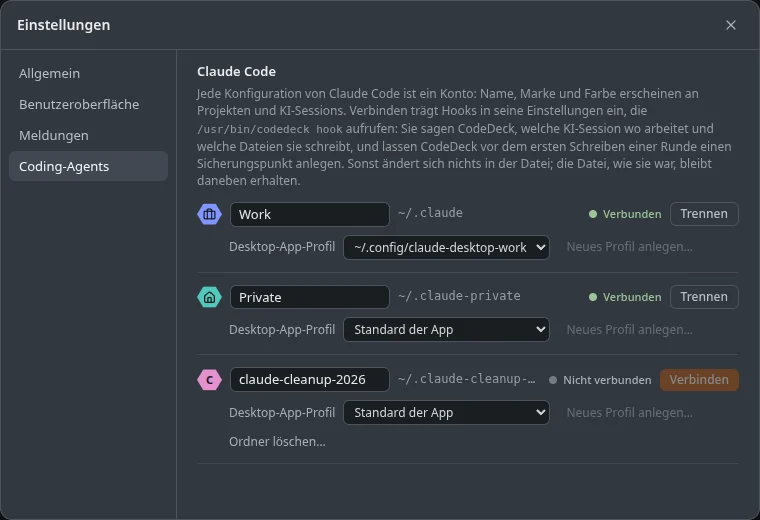
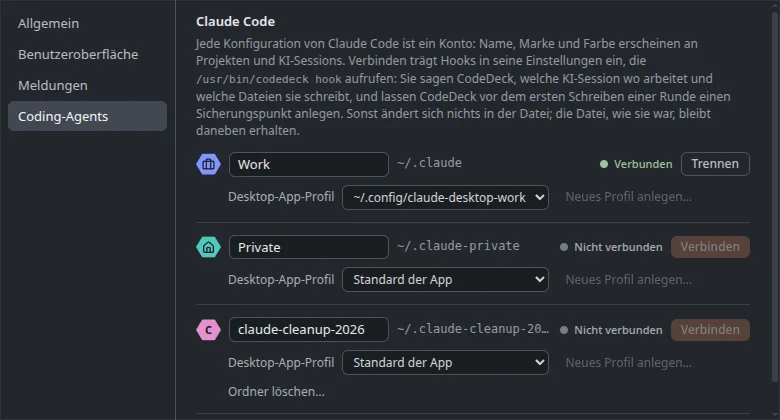
CodeDeck manual: connect in the welcome, settings in their own window
Claude-Session: https://claude.ai/code/session_01AmUU1ckh5iDie4vHPz56Cn

diff --git a/src/pages/codedeck/manual/de/tutorial/01-vorbereitung.md b/src/pages/codedeck/manual/de/tutorial/01-vorbereitung.md
@@ -8,7 +8,7 @@ purpose: >-
   Nach diesem Kapitel läuft CodeDeck, kennt deinen Coding-Agent und hat dein erstes Projekt auf der Liste.
 ---
 
-Bevor die erste Arbeitsrunde beginnen kann, sind drei Dinge zu erledigen: CodeDeck muss auf deinem Rechner laufen, es muss wissen, an welchen Projekten du arbeitest, und es muss mit deinem Coding-Agent verbunden sein. Das dauert nur ein paar Minuten, und du machst es nur einmal.
+Bevor die erste Arbeitsrunde beginnen kann, sind drei Dinge zu erledigen: CodeDeck muss auf deinem Rechner laufen, es muss mit deinem Coding-Agent verbunden sein, und es muss wissen, an welchen Projekten du arbeitest. Das dauert nur ein paar Minuten, und du machst es nur einmal.
 
 ## CodeDeck installieren
 
@@ -18,7 +18,7 @@ Wie du CodeDeck installierst und später aktualisierst, beschreibt der Anhang un
 
 Beim ersten Start öffnet sich das Fenster **Willkommen bei CodeDeck**. CodeDeck hat zu diesem Zeitpunkt bereits nachgesehen, mit welchen Programmen es auf deinem Rechner zusammenarbeiten kann, und zeigt dir das Ergebnis als Liste.
 
-![Das Willkommensfenster: oben „Alles, was CodeDeck braucht, ist da“, darunter die Liste der gefundenen Programme wie Claude Code, git und tmux, jeweils mit „gefunden“ oder „fehlt“ und einer Einstufung](/codedeck/manual/de/vorbereitung-willkommen.webp)
+![Das Willkommensfenster: oben „Alles, was CodeDeck braucht, ist da“, darunter die Liste der gefundenen Programme wie Claude Code, git und tmux, jeweils mit „gefunden“ oder „fehlt“ und einer Einstufung; unter Claude Code der Hinweis „Noch nicht verbunden“ mit dem Knopf „Verbinden“](/codedeck/manual/de/vorbereitung-willkommen.webp)
 
 Jede Zeile nennt ein Programm und sagt dir, ob CodeDeck es **gefunden** hat oder ob es **fehlt**. Daneben steht, wie wichtig das Programm für CodeDeck ist:
 
@@ -30,11 +30,33 @@ Wenn du mit der Maus auf das Symbol ⓘ am Ende einer Zeile zeigst, erklärt Cod
 
 Wenn dein Desktop unter Wayland läuft, zeigt das Willkommensfenster zusätzlich einen Hinweis, welche Funktionen dort eingeschränkt sind und wie du dir trotzdem ein Tastenkürzel für CodeDeck einrichtest. Die Hintergründe stehen auf der Seite [Wayland und X11](/codedeck/manual/de/anhang/wayland/).
 
+Unter deinem Coding-Agent steht außerdem, ob er schon mit CodeDeck verbunden ist. Was es damit auf sich hat, erklärt der nächste Abschnitt.
+
 Mit **Erzähl mir mehr** kommst du auf eine zweite Seite. Sie erklärt in vier kurzen Abschnitten, was ein Projekt ist, wie die Projektliste aufgebaut ist und wie CodeDeck von deinen KI-Sessions erfährt. Du kannst sie jetzt lesen oder dich auf dieses Tutorial verlassen, das dieselben Dinge ausführlicher erklärt.
 
 ![Die zweite Seite des Willkommensfensters, „Deine Projekte“, mit vier Kästen: Die Projektliste, Ein Projekt, KI-Sessions hören, Hinzufügen und öffnen](/codedeck/manual/de/vorbereitung-deine-projekte.webp)
 
 Das Willkommensfenster erscheint bei jedem Start von CodeDeck, bis du unten **Beim Start nicht mehr zeigen** ankreuzt. Sollte später ein essenzielles Programm verschwinden, zum Beispiel nach einem Systemwechsel, zeigt CodeDeck es von selbst wieder an. Du kannst es außerdem jederzeit über das CodeDeck-Menü hinter dem Logo öffnen, mit dem Eintrag **Willkommen und Rechner-Check**.
+
+## Den Coding-Agent verbinden
+
+Damit CodeDeck sieht, was deine KI-Sessions tun, muss dein Coding-Agent CodeDeck Bescheid geben: wenn eine Session startet, wenn sie arbeitet, wenn sie dich etwas fragt und wenn sie mit ihrer Runde fertig ist. Dafür verbindest du den Coding-Agent einmal mit CodeDeck.
+
+Am einfachsten geht das gleich im Willkommensfenster. Ist dein Coding-Agent noch nicht verbunden, steht unter seiner Zeile **Noch nicht verbunden** und daneben der Knopf **Verbinden**. Ein Klick darauf genügt, danach steht dort **Mit CodeDeck verbunden**.
+
+CodeDeck trägt dabei einen kleinen Befehl in die Einstellungen deines Coding-Agents ein, der ihm künftig jeden Schritt einer Session meldet. Sonst ändert sich nichts in der Datei, und die Fassung von vorher bleibt als Kopie daneben erhalten. KI-Sessions, die schon liefen, bevor du verbunden hast, melden sich ab ihrem nächsten Schritt. Du musst sie also nicht neu starten.
+
+### Mehrere Konfigurationen und die Einstellungen
+
+Bei Claude Code ist eine **Konfiguration** ein Ordner wie `~/.claude`, in dem der Coding-Agent seine Einstellungen und seine Anmeldung aufbewahrt. Die meisten Menschen haben genau eine. Wer zum Beispiel ein Konto für die Arbeit und eines für private Projekte nutzt, hat zwei. Das Willkommensfenster bietet dir für jede Konfiguration, die noch nicht verbunden ist, einen eigenen Knopf an.
+
+Alles Weitere dazu findest du in den Einstellungen im Bereich **Coding-Agents**. Die Einstellungen öffnen sich in einem eigenen Fenster, und du erreichst sie jederzeit, auch wenn noch kein Projekt geöffnet ist: auf der Startseite über das Menü ⋯ oben rechts, im Projektfenster über die Schnelleinstellungen und **Alle Einstellungen…** und über das Symbol von CodeDeck in der Leiste deines Desktops.
+
+![Die Einstellungen im Bereich Coding-Agents: drei Konfigurationen von Claude Code, eine davon „Verbunden“ mit dem Knopf „Trennen“, zwei „Nicht verbunden“ mit dem Knopf „Verbinden“](/codedeck/manual/de/vorbereitung-coding-agents.webp)
+
+CodeDeck behandelt jede Konfiguration als eigenes **Konto** und zeigt dessen Namen, Zeichen und Farbe später an den Projekten und Sessions an. Den Namen kannst du hier ändern. Hier verbindest du auch weitere Konfigurationen, und mit **Trennen** löst du eine Verbindung wieder.
+
+Wie die Meldungen technisch funktionieren, erklären die [KI-Grundlagen](/codedeck/manual/de/nachschlagen/ki-grundlagen/). Welche Coding-Agents CodeDeck unterstützt, steht im Anhang unter [Coding-Agents](/codedeck/manual/de/anhang/coding-agents/).
 
 ## Das erste Projekt hinzufügen
 
@@ -46,7 +68,7 @@ Beim ersten Start ist die Liste noch leer, und CodeDeck bietet dir zwei Wege an,
 
 Mit **Projekt hinzufügen …** wählst du einen einzelnen Ordner aus, der dann auf die Liste kommt. Mit **Alle Projekte in einem Verzeichnis…** wählst du einen übergeordneten Ordner, und CodeDeck nimmt jeden Ordner darin als eigenes Projekt auf. Das ist praktisch, wenn du alle deine Projekte zum Beispiel unter `~/projects` sammelst.
 
-Später, wenn die Liste nicht mehr leer ist, findest du beide Befehle im Menü ⋯ neben der Überschrift „Projekte“. Ein Klick auf ein Projekt in der Liste öffnet es in einem **Projektfenster**. Öffne jetzt dein erstes Projekt, denn den nächsten Schritt erledigst du dort. Wie das Projektfenster aufgebaut ist, zeigt dir das nächste Kapitel ausführlich.
+Später, wenn die Liste nicht mehr leer ist, findest du beide Befehle im Menü ⋯ neben der Überschrift „Projekte“. Ein Klick auf ein Projekt in der Liste öffnet es in einem **Projektfenster**. Wie dieses Fenster aufgebaut ist, zeigt dir das nächste Kapitel ausführlich.
 
 ### Wenn der Ordner noch kein Git-Repository ist
 
@@ -58,25 +80,9 @@ Wenn der Ordner, den du aufgenommen hast, noch kein Git-Repository ist, musst du
 
 Ein Klick auf **git init** macht den Ordner zu einem Git-Repository mit dem Branch `main`. CodeDeck tut das nie von selbst, weil es dein Projekt verändert, sondern nur, wenn du den Knopf drückst. An deinen Dateien ändert sich dabei nichts. Den Knopf findest du außerdem unten in der Dateiliste neben „Kein Git-Repo“, falls du den Hinweis in der Mitte gerade nicht vor dir hast.
 
-## Den Coding-Agent verbinden
-
-Damit CodeDeck sieht, was deine KI-Sessions tun, muss dein Coding-Agent CodeDeck Bescheid geben: wenn eine Session startet, wenn sie arbeitet, wenn sie dich etwas fragt und wenn sie mit ihrer Runde fertig ist. Dafür verbindest du den Coding-Agent einmal mit CodeDeck.
-
-Öffne dazu im Projektfenster die Einstellungen. Du erreichst sie über die Schnelleinstellungen oben links neben dem Projektnamen (das Symbol mit den Schiebereglern) und dort über **Alle Einstellungen…**. Wähle links den Bereich **Coding-Agents**. Auf der Startseite ohne geöffnetes Projekt sind die Einstellungen noch nicht verfügbar.
-
-![Die Einstellungen im Bereich Coding-Agents: drei Konfigurationen von Claude Code, zwei davon „Verbunden“ mit dem Knopf „Trennen“, eine „Nicht verbunden“ mit dem Knopf „Verbinden“](/codedeck/manual/de/vorbereitung-coding-agents.webp)
-
-Hier siehst du jede **Konfiguration** deines Coding-Agents, die CodeDeck auf deinem Rechner gefunden hat. Bei Claude Code ist eine Konfiguration ein Ordner wie `~/.claude`, in dem der Coding-Agent seine Einstellungen und seine Anmeldung aufbewahrt. Die meisten Menschen haben genau eine. Wer zum Beispiel ein Konto für die Arbeit und eines für private Projekte nutzt, hat zwei. CodeDeck behandelt jede Konfiguration als eigenes **Konto** und zeigt dessen Namen, Zeichen und Farbe später an den Projekten und Sessions an. Den Namen kannst du hier gleich ändern.
-
-Klicke bei jeder Konfiguration, mit der du arbeitest, auf **Verbinden**. Danach steht dort **Verbunden**. CodeDeck trägt dabei einen kleinen Befehl in die Einstellungen deines Coding-Agents ein, der ihm künftig jeden Schritt einer Session meldet. Sonst ändert sich nichts in der Datei, und die Fassung von vorher bleibt als Kopie daneben erhalten. Wenn du die Verbindung wieder lösen willst, klickst du auf **Trennen**.
-
-KI-Sessions, die schon liefen, bevor du verbunden hast, melden sich ab ihrem nächsten Schritt. Du musst sie also nicht neu starten.
-
-Wie diese Meldungen technisch funktionieren, erklären die [KI-Grundlagen](/codedeck/manual/de/nachschlagen/ki-grundlagen/). Welche Coding-Agents CodeDeck unterstützt, steht im Anhang unter [Coding-Agents](/codedeck/manual/de/anhang/coding-agents/).
-
 ## Probier es aus
 
-Füge ein eigenes kleines Projekt zur Liste hinzu und öffne es mit einem Klick. Wenn es noch kein Git-Repository ist, mach es mit **git init** zu einem. Öffne danach über das CodeDeck-Menü noch einmal **Willkommen und Rechner-Check** und sieh nach, ob alle Programme, die als essenziell eingestuft sind, gefunden wurden. Prüfe zum Schluss in den Einstellungen unter **Coding-Agents**, ob dort bei deiner Konfiguration **Verbunden** steht.
+Sieh im Willkommensfenster nach, ob alle Programme gefunden wurden, die als essenziell eingestuft sind, und ob unter deinem Coding-Agent **Mit CodeDeck verbunden** steht. Füge danach ein eigenes kleines Projekt zur Liste hinzu und öffne es mit einem Klick. Wenn es noch kein Git-Repository ist, mach es mit **git init** zu einem. Öffne zum Schluss die Einstellungen und sieh dir im Bereich **Coding-Agents** an, unter welchem Namen CodeDeck deine Konfiguration führt.
 
 ## Mehr dazu
 

diff --git a/src/pages/codedeck/manual/de/tutorial/02-projektfenster.md b/src/pages/codedeck/manual/de/tutorial/02-projektfenster.md
@@ -62,7 +62,7 @@ Links neben dem Logo öffnet das Symbol mit den Schiebereglern die **Schnelleins
 
 ![Die Schnelleinstellungen: „Nicht stören“ mit einer Auswahl, darunter „Melden, wenn ich woanders bin“ mit den Häkchen „eine Session fragt“, „eine Runde ist fertig“, „ein Git-Befehl scheitert“, in der Taskleiste und als Meldung, ganz unten „Alle Einstellungen…“](/codedeck/manual/de/projektfenster-schnelleinstellungen.webp)
 
-Mit **Nicht stören** schaltest du die Meldungen von CodeDeck für eine Weile ab, zum Beispiel während einer Besprechung. Unter **Melden, wenn ich woanders bin** legst du fest, wann CodeDeck sich meldet, während du in einem anderen Fenster arbeitest: wenn eine Session dich etwas fragt, wenn eine Runde fertig ist oder wenn ein Git-Befehl scheitert. Außerdem wählst du, ob es das in der Taskleiste tut, mit einer Nachricht auf dem Desktop oder auf beide Arten. **Alle Einstellungen…** öffnet die Einstellungen mit allen übrigen Möglichkeiten, darunter die Sprache und das Farbschema unter **Benutzeroberfläche**.
+Mit **Nicht stören** schaltest du die Meldungen von CodeDeck für eine Weile ab, zum Beispiel während einer Besprechung. Unter **Melden, wenn ich woanders bin** legst du fest, wann CodeDeck sich meldet, während du in einem anderen Fenster arbeitest: wenn eine Session dich etwas fragt, wenn eine Runde fertig ist oder wenn ein Git-Befehl scheitert. Außerdem wählst du, ob es das in der Taskleiste tut, mit einer Nachricht auf dem Desktop oder auf beide Arten. **Alle Einstellungen…** öffnet die Einstellungen mit allen übrigen Möglichkeiten in einem eigenen Fenster, darunter die Sprache und das Farbschema unter **Benutzeroberfläche**.
 
 ## Spalten anpassen
 
